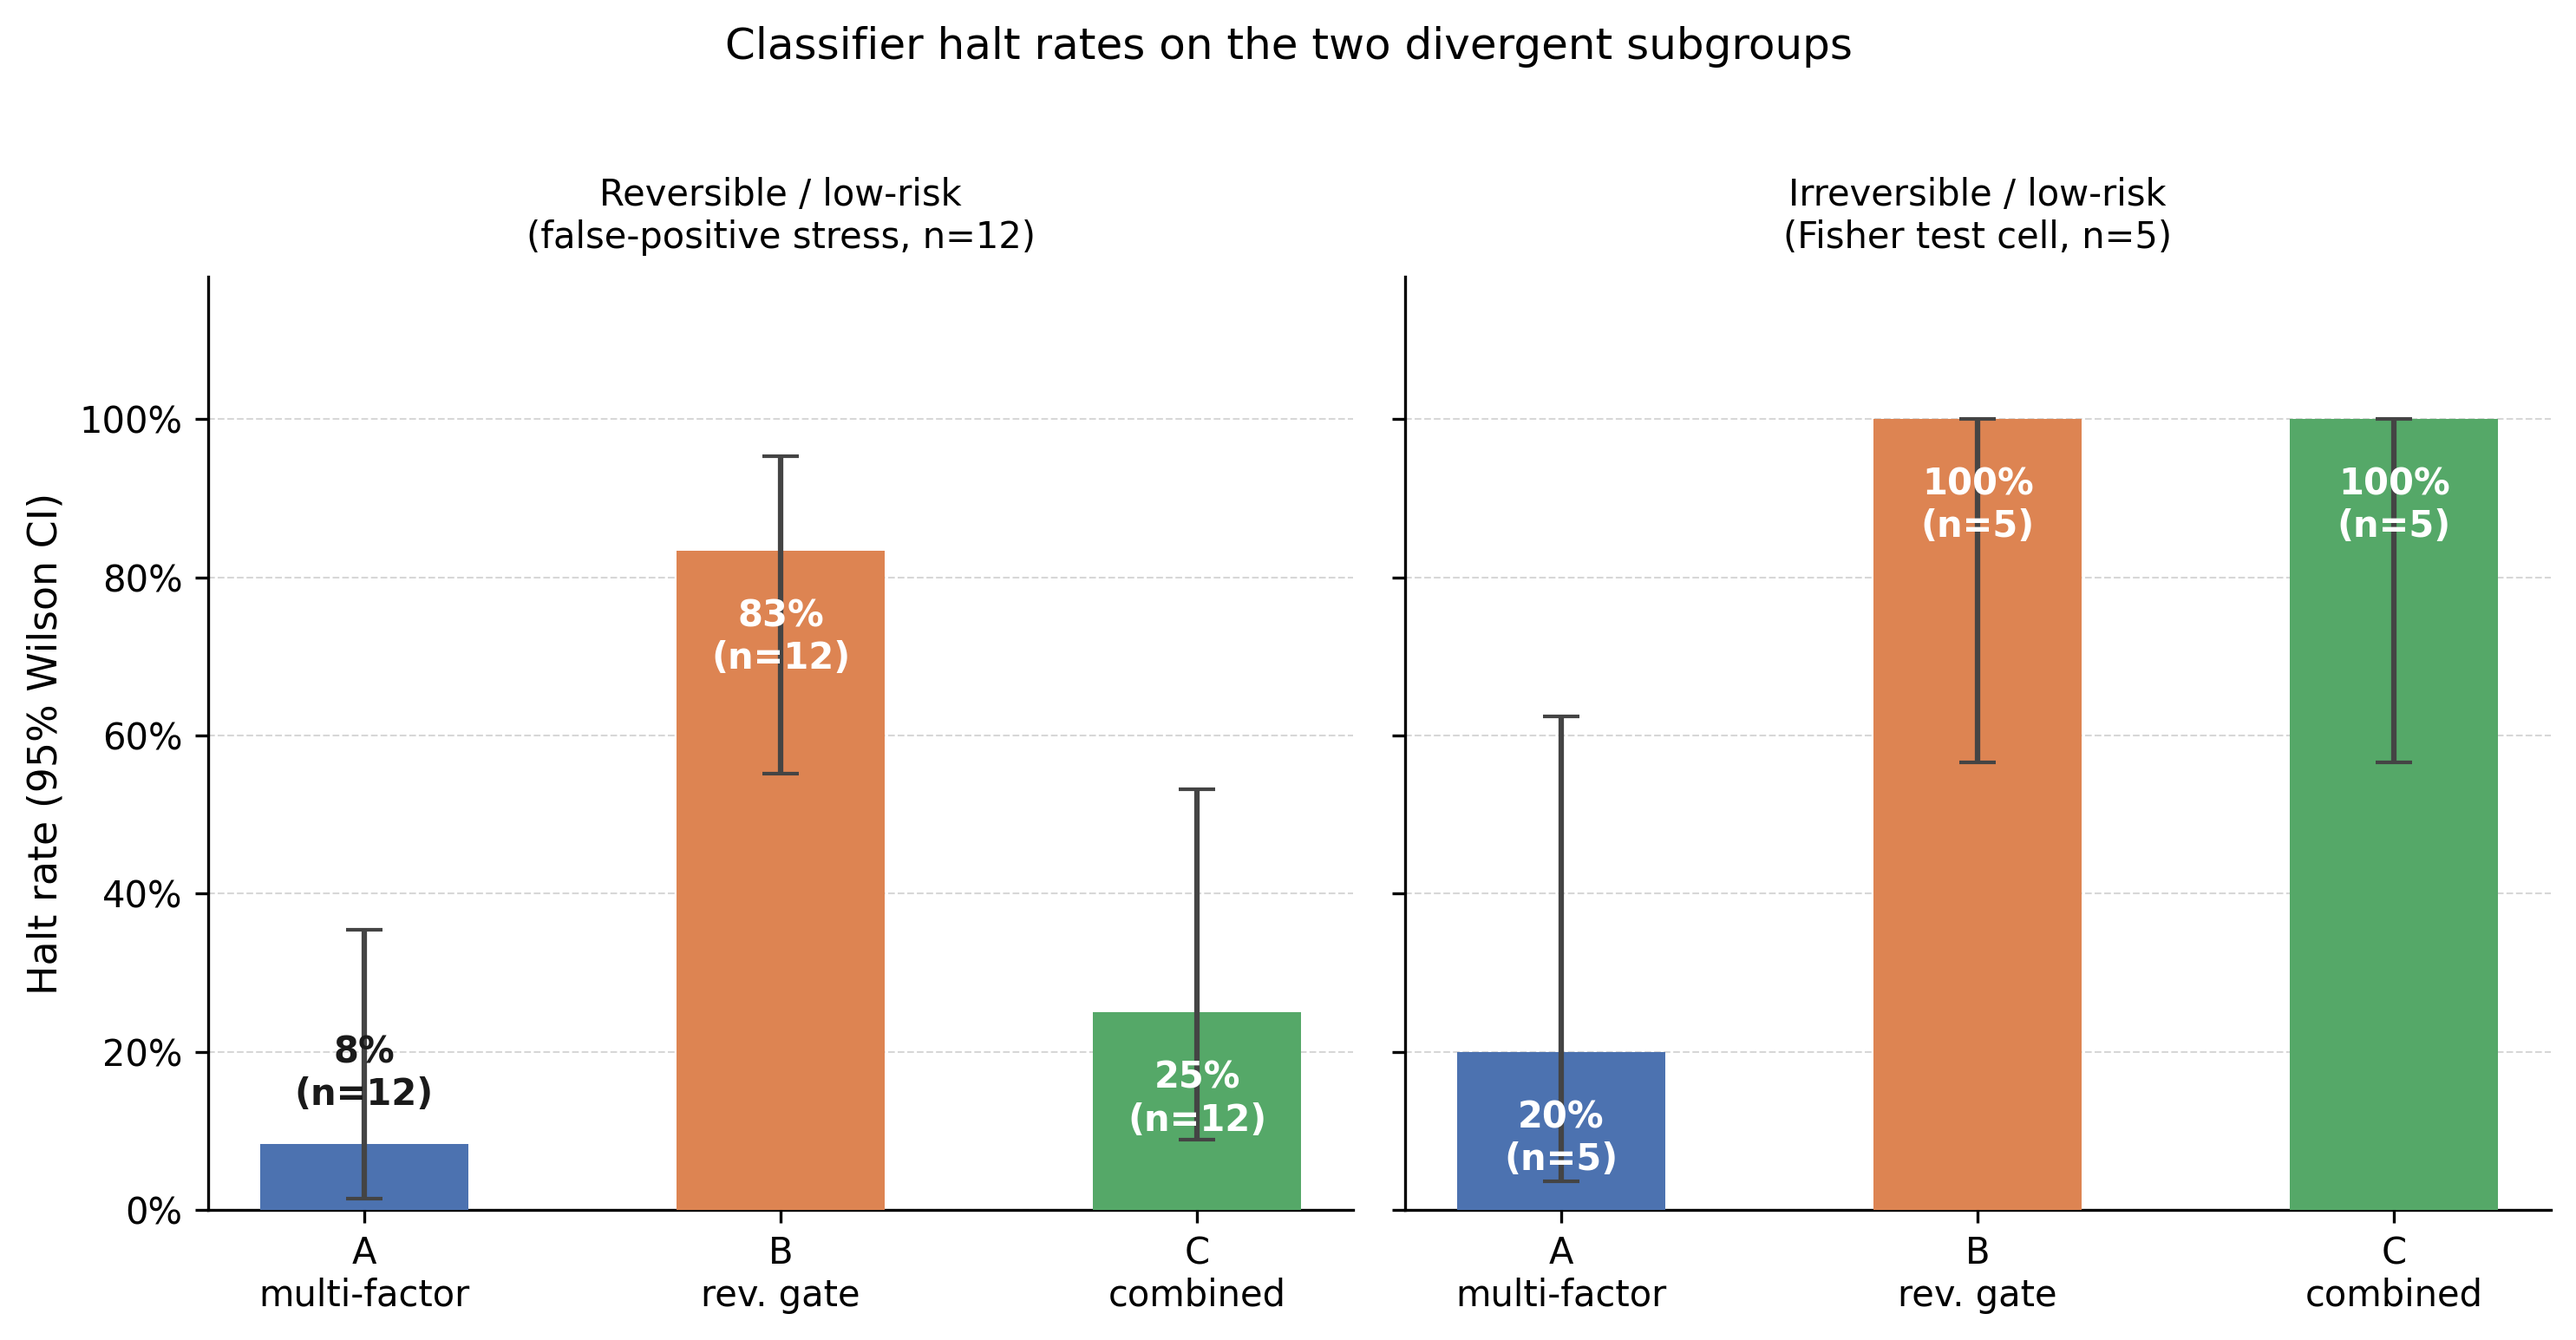
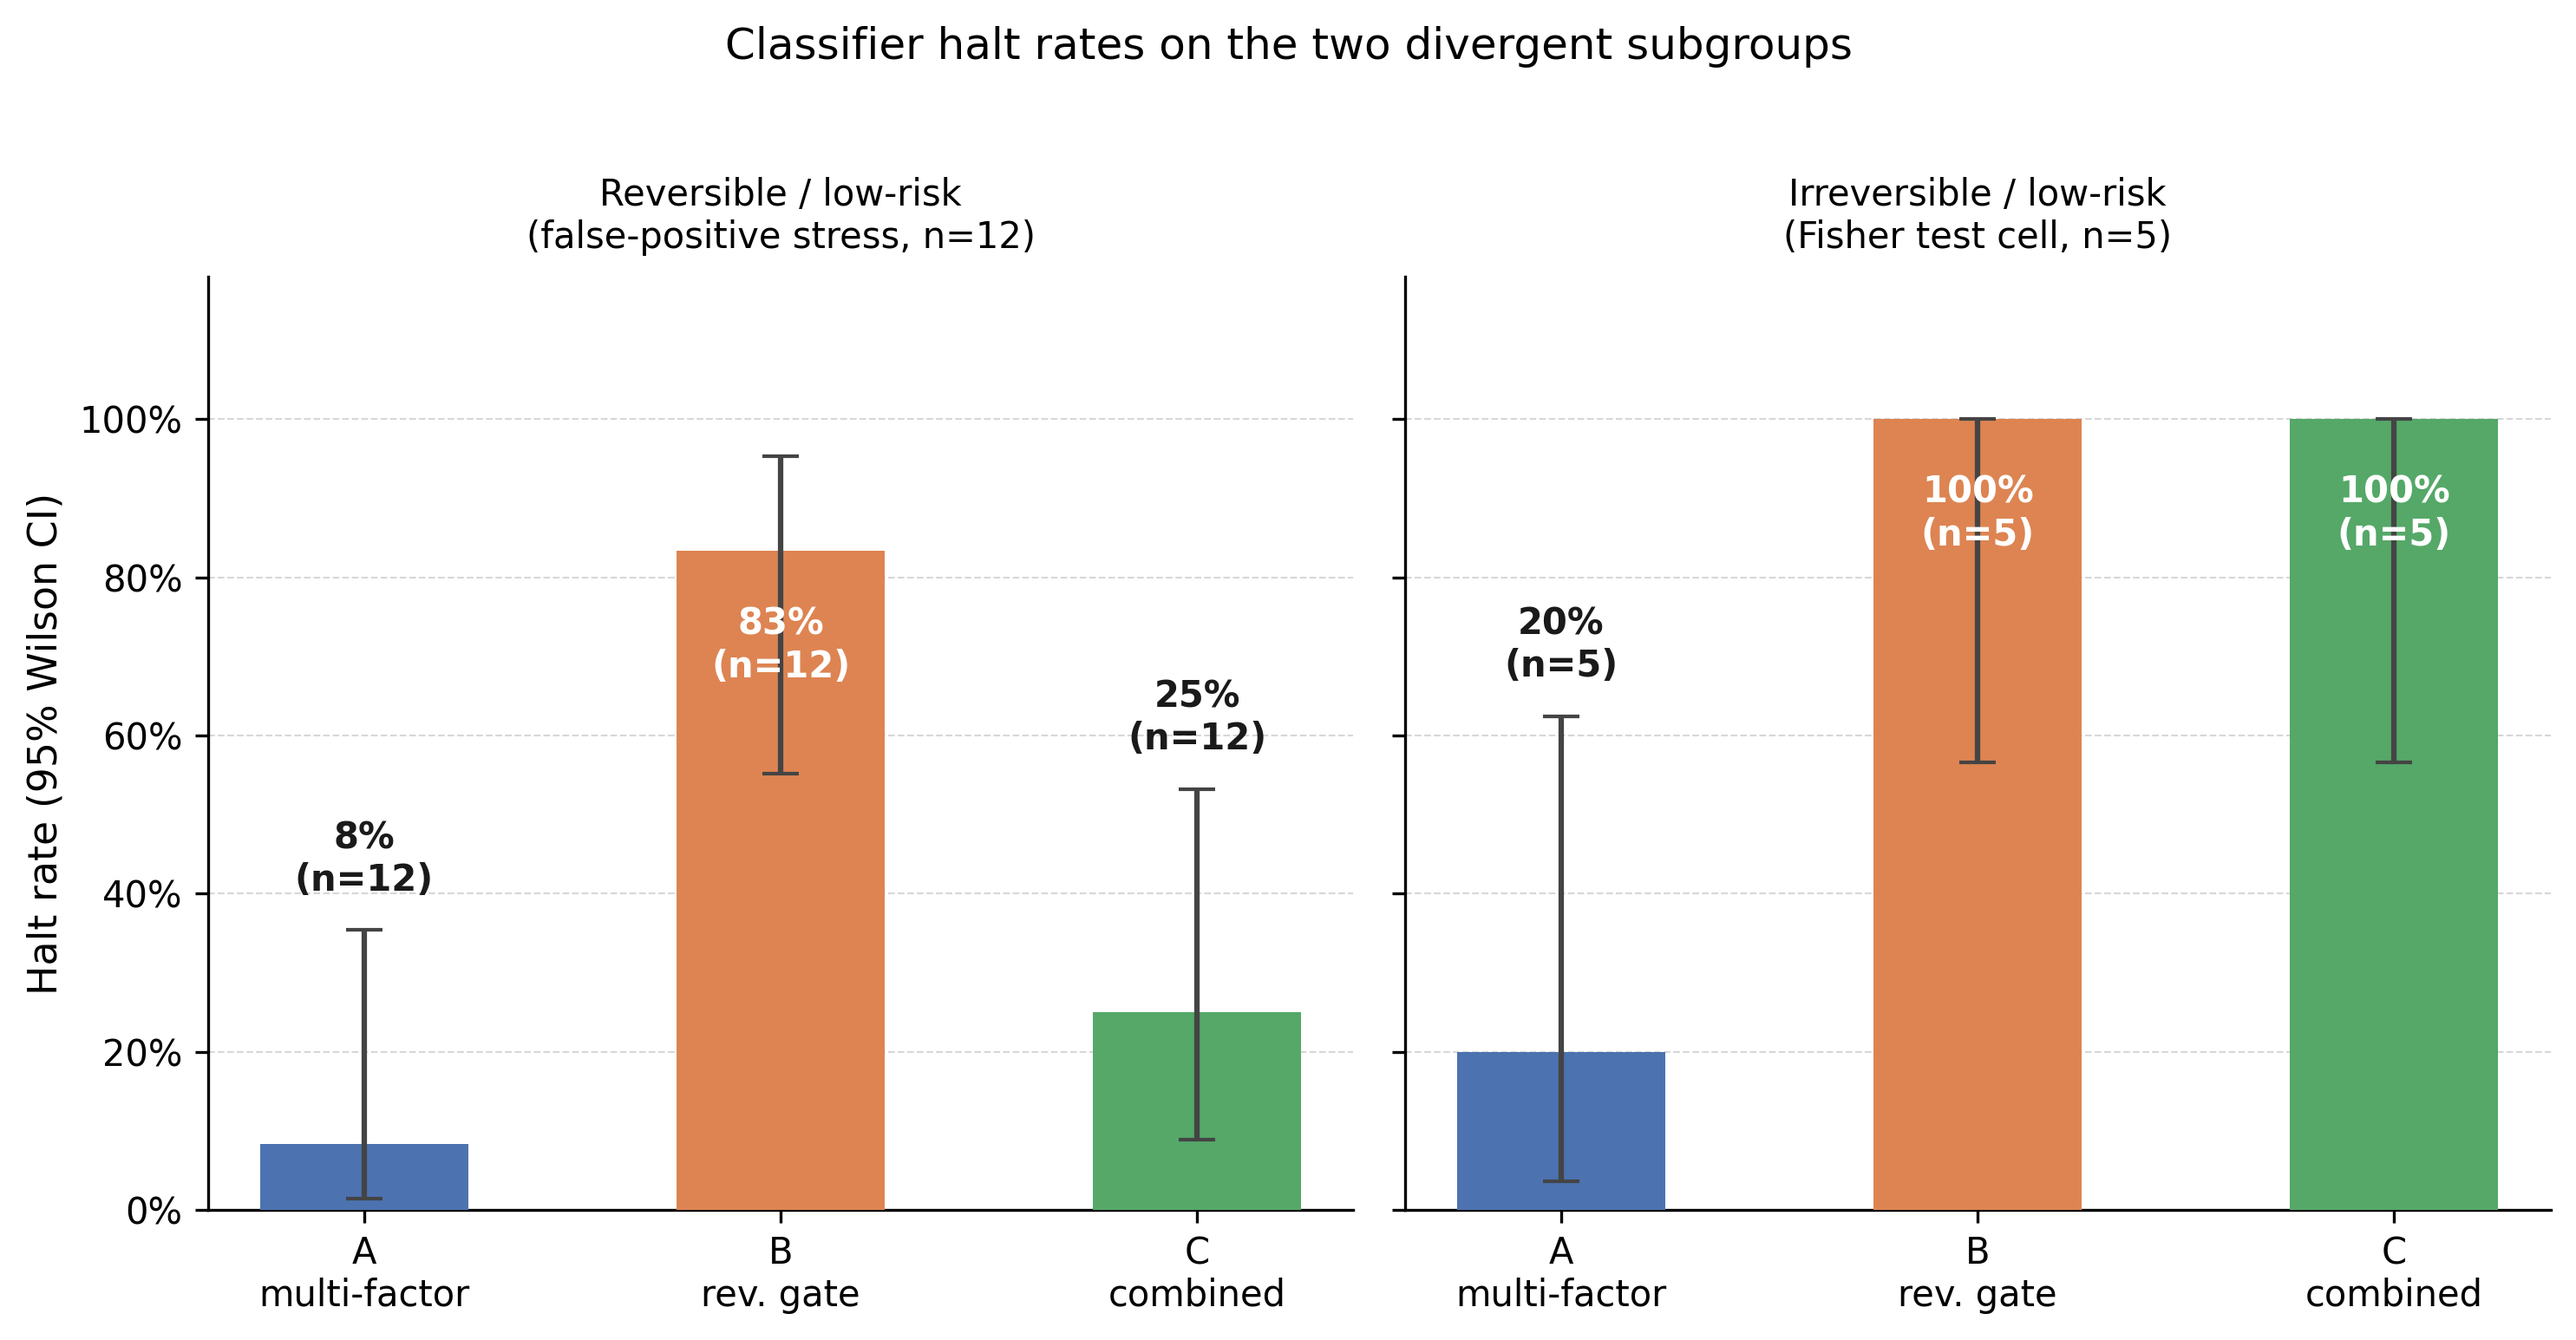
docs(figures): fix captions and label overlap in fig2
Update README alt text and captions to match the redesigned figures:
- fig1: describe heatmap layout, cite exact per-cell rates, note
  orange border and Classifier A miss failure
- fig2: describe two-panel layout, cite Wilson CI, explain Fisher
  p interpretation for A and C
- directory tree comments updated to match

fig2-reversible-low-detail.py: place short-bar labels above the CI
whisker cap (ci_top + 0.04) instead of above the bar top, preventing
overlap between the error bar and the pct/n annotation.

diff --git a/figures/fig2-reversible-low-detail.py b/figures/fig2-reversible-low-detail.py
@@ -74,16 +74,19 @@ for ax, (rev, risk, title) in zip(axes, subgroups):
                   error_kw={'elinewidth': 1.5, 'capsize': 5, 'ecolor': '#444444'},
                   zorder=3)
 
-    for bar, rate, n in zip(bars, halts, ns):
+    for bar, rate, lo, hi, n in zip(bars, halts, lows, highs, ns):
         label = f'{rate:.0%}\n(n={n})'
-        if rate >= 0.20:
+        ci_top = rate + hi   # top of error whisker
+        if rate >= 0.30:
+            # label inside the bar, well below the top
             ax.text(bar.get_x() + bar.get_width() / 2,
-                    rate - 0.06, label,
+                    rate - 0.07, label,
                     ha='center', va='top', fontsize=10,
                     color='white', fontweight='bold', zorder=4)
         else:
+            # label above the CI cap so it never overlaps the whisker
             ax.text(bar.get_x() + bar.get_width() / 2,
-                    rate + 0.04, label,
+                    ci_top + 0.04, label,
                     ha='center', va='bottom', fontsize=10,
                     color='#1a1a1a', fontweight='bold', zorder=4)
 

diff --git a/README.md b/README.md
@@ -52,13 +52,13 @@ Full results: [experiments/aggregate/summary.csv](experiments/aggregate/summary.
 See [METHODOLOGY.md](METHODOLOGY.md) for limitations, including the pilot-scale n=5 in the
 headline cell and the single-model-family constraint.
 
-![Grouped bar chart showing halt rate per reversibility tier for Classifiers A, B, and C](figures/fig1-halt-by-reversibility.png)
+![Three-panel heatmap showing halt rate per reversibility-tier x risk-tier cell for Classifiers A, B, and C. The irreversible/low Fisher test cell is highlighted with an orange border.](figures/fig1-halt-by-reversibility.png)
 
-*Figure 1: Halt rate by reversibility tier per classifier. Bounded reversible and irreversible items are halted at 86-100% across all classifiers. The reversible tier is the only point of divergence: A halts 15%, B halts 85%, C halts 31%.*
+*Figure 1: Halt rate heatmap across the reversibility x risk-tier design, one panel per classifier. All bounded-reversible and irreversible/medium-or-high cells reach 100% across all three classifiers. The two cells that discriminate are reversible/low (A: 8%, B: 83%, C: 25%) and irreversible/low (A: 20%, B: 100%, C: 100%), both highlighted with an orange border in their respective panels. Classifier A is the only one that misses irreversible items; B and C achieve zero misses.*
 
-![Dot chart showing per-scenario halt or pass verdict for each classifier across the 12 reversible/low-risk scenarios](figures/fig2-reversible-low-detail.png)
+![Two-panel grouped bar chart comparing halt rates with 95% Wilson CI on the reversible/low and irreversible/low subgroups for Classifiers A, B, and C](figures/fig2-reversible-low-detail.png)
 
-*Figure 2: Per-scenario verdicts for reversible/low-risk items (n=12), the only subgroup where classifiers diverge. Filled circle = halt; open circle = pass. B halts 10 of 12; A halts 1 of 12; C halts 2 of 12.*
+*Figure 2: Halt rates with 95% Wilson CI on the two subgroups where classifiers diverge. Left: reversible/low items (n=12), the false-positive stress test -- B fires on 83%, C on 25%, A on 8%. Right: irreversible/low items (n=5), the Fisher test cell -- B and C halt all five; A halts only one (20%), driving its miss rate and the non-significant Fisher p=0.075. C's combined signal achieves the significant Fisher p=0.002 precisely because it captures this cell without B's false-positive cost.*
 
 ## Corpus Design
 
@@ -112,9 +112,9 @@ reversibility-benchmark/
       failure-classifications.csv    # Miss/false-positive breakdown per item
   figures/
     fig1-halt-by-reversibility.py    # Generates fig1-halt-by-reversibility.png
-    fig1-halt-by-reversibility.png   # Halt rate by reversibility tier per classifier
+    fig1-halt-by-reversibility.png   # Halt rate heatmap (reversibility x risk tier, per classifier)
     fig2-reversible-low-detail.py    # Generates fig2-reversible-low-detail.png
-    fig2-reversible-low-detail.png   # Per-scenario verdicts for reversible/low items (n=12)
+    fig2-reversible-low-detail.png   # Halt rates with CI on reversible/low and irreversible/low subgroups
   scripts/
     annotate.py                      # Two-pass annotation runner
     classify.py                      # Classifier runner (A, B, C)
